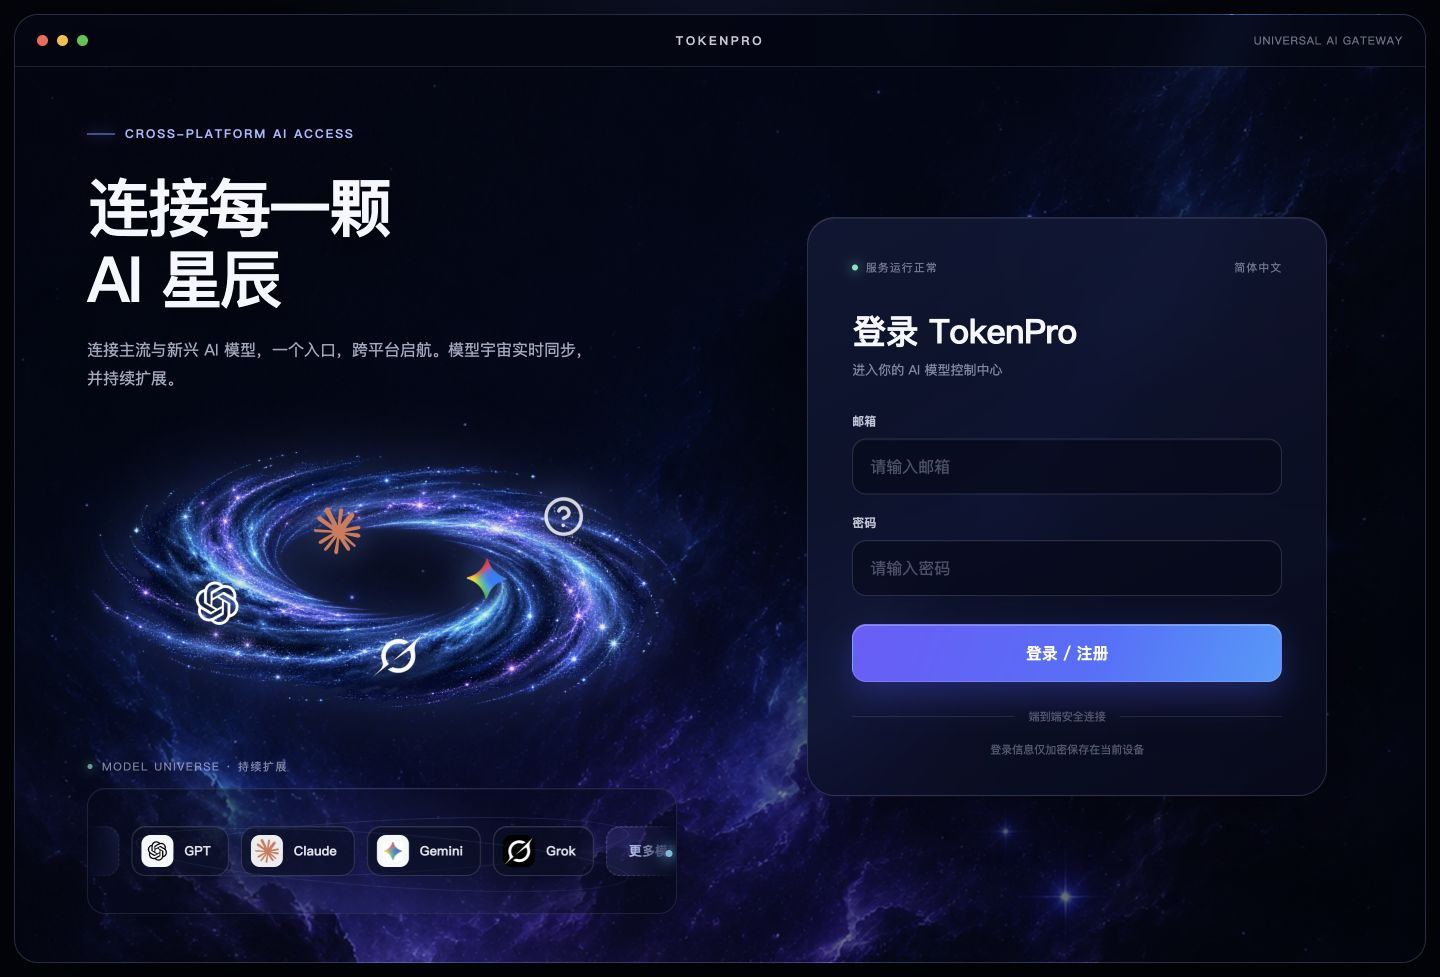
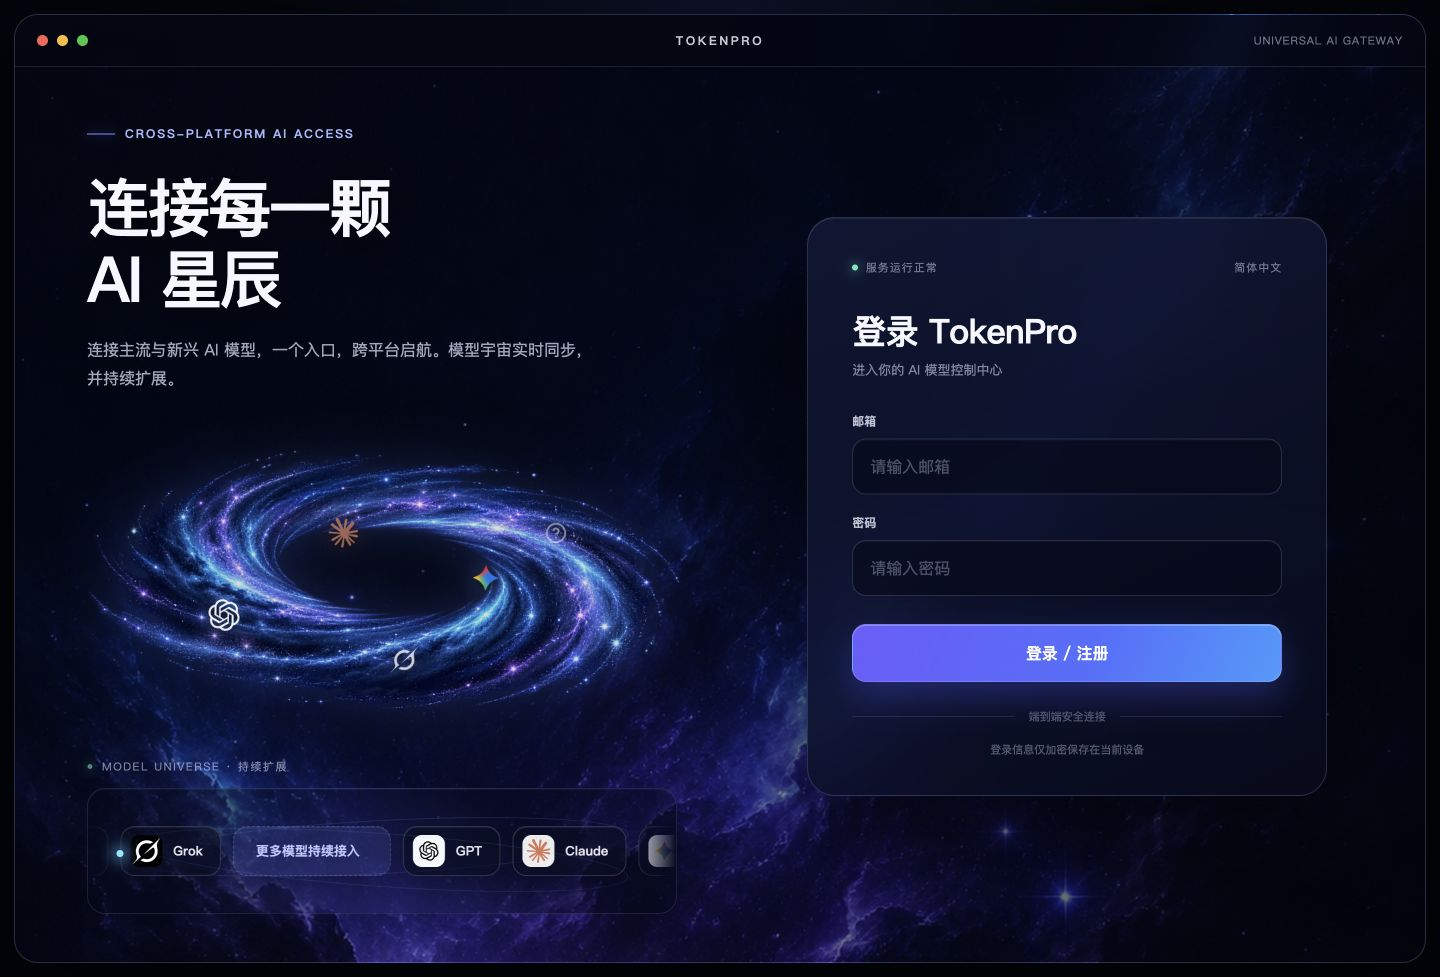
Refine model vortex composition

Changed region(s): [[0.0625, 0.4913, 0.4688, 0.7062], [0.0625, 0.8291, 0.4688, 0.9212]]

diff --git a/design-preview/index.html b/design-preview/index.html
@@ -104,21 +104,22 @@
       line-height: 1.8;
     }
     .vortex-stage { position: relative; flex: 1; min-height: 220px; margin: 8px -18px 2px; display: grid; place-items: center; isolation: isolate; }
-    .vortex-disc { width: min(610px, 108%); max-height: 100%; object-fit: contain; opacity: .84; filter: drop-shadow(0 0 22px rgba(78,118,255,.22)); animation: vortexBreath 8s ease-in-out infinite; }
+    .vortex-disc { width: min(620px, 109%); max-height: 100%; object-fit: contain; opacity: .78; filter: drop-shadow(0 0 18px rgba(78,118,255,.18)); animation: vortexBreath 10s ease-in-out infinite; }
     .vortex-models { position: absolute; inset: 0; }
     .vortex-model {
       position: absolute;
-      width: 44px;
-      height: 44px;
+      width: 30px;
+      height: 30px;
       object-fit: contain;
-      filter: drop-shadow(0 5px 9px rgba(0,0,0,.72)) drop-shadow(0 0 12px rgba(115,151,255,.5));
-      animation: modelFloat 4.8s ease-in-out infinite;
+      opacity: .86;
+      filter: drop-shadow(0 3px 5px rgba(0,0,0,.74)) drop-shadow(0 0 8px rgba(120,157,255,.38));
+      animation: modelFloat 6.4s ease-in-out infinite;
     }
-    .vortex-model.gpt { left: 20%; top: 51%; filter: invert(1) drop-shadow(0 5px 9px rgba(0,0,0,.72)) drop-shadow(0 0 12px rgba(115,151,255,.5)); }
-    .vortex-model.claude { left: 39%; top: 30%; width: 47px; height: 47px; animation-delay: -.9s; }
-    .vortex-model.gemini { left: 63%; top: 45%; width: 42px; height: 42px; animation-delay: -1.8s; }
-    .vortex-model.grok { left: 48%; top: 67%; width: 47px; height: 47px; animation-delay: -2.7s; }
-    .vortex-model.unknown { left: 75%; top: 29%; width: 40px; height: 40px; opacity: .82; filter: invert(1) drop-shadow(0 5px 9px rgba(0,0,0,.72)) drop-shadow(0 0 15px rgba(136,163,255,.62)); animation-delay: -3.5s; }
+    .vortex-model.gpt { left: 22%; top: 56%; width: 32px; height: 32px; opacity: .92; filter: invert(1) drop-shadow(0 3px 5px rgba(0,0,0,.74)) drop-shadow(0 0 8px rgba(120,157,255,.38)); }
+    .vortex-model.claude { left: 41%; top: 34%; width: 29px; height: 29px; opacity: .78; filter: saturate(.82) drop-shadow(0 3px 5px rgba(0,0,0,.7)) drop-shadow(0 0 7px rgba(216,119,87,.28)); animation-delay: -1.2s; }
+    .vortex-model.gemini { left: 64%; top: 47%; width: 26px; height: 26px; opacity: .9; animation-delay: -2.5s; }
+    .vortex-model.grok { left: 51%; top: 69%; width: 29px; height: 29px; opacity: .8; animation-delay: -3.8s; }
+    .vortex-model.unknown { left: 76%; top: 34%; width: 22px; height: 22px; opacity: .48; filter: invert(1) drop-shadow(0 0 7px rgba(136,163,255,.42)); animation-delay: -5.1s; }
     .orbit-copy { margin-top: 0; width: min(590px,100%); }
     .orbit-label { display: flex; align-items: center; gap: 9px; color: rgba(205,215,248,.58); font-size: 11px; letter-spacing: .14em; }
     .orbit-label::before { content: ""; width: 6px; height: 6px; border-radius: 50%; background: #6ff0ca; box-shadow: 0 0 12px #6ff0ca; animation: livePulse 2s ease-in-out infinite; }
@@ -158,8 +159,8 @@
     @keyframes modelDrift { to { transform: translateX(calc(-50% - 6px)); } }
     @keyframes requestFlow { 0% { left: -8px; opacity: 0; } 12%,82% { opacity: 1; } 100% { left: calc(100% + 8px); opacity: 0; } }
     @keyframes livePulse { 50% { opacity: .4; transform: scale(.72); } }
-    @keyframes vortexBreath { 50% { opacity: .98; transform: scale(1.025) rotate(.7deg); filter: drop-shadow(0 0 32px rgba(92,132,255,.36)); } }
-    @keyframes modelFloat { 50% { transform: translate(5px,-8px) rotate(3deg) scale(1.06); } }
+    @keyframes vortexBreath { 50% { opacity: .9; transform: scale(1.014) rotate(.35deg); filter: drop-shadow(0 0 26px rgba(92,132,255,.28)); } }
+    @keyframes modelFloat { 50% { transform: translate(3px,-4px) rotate(1.5deg) scale(1.035); } }
     .login-side { display: grid; place-items: center; padding: 42px 58px 58px 18px; }
     .login-card {
       width: min(520px, 100%);
@@ -366,7 +367,7 @@
       .dashboard-view { grid-template-columns: 250px 1fr; }
       .dash-header, .wallet-zone { padding-left: 28px; padding-right: 28px; }
       .connections { padding-left: 28px; padding-right: 28px; }
-      .vortex-model { width: 40px; height: 40px; border-radius: 12px; }
+      .vortex-model { transform: scale(.9); }
     }
     @media (prefers-reduced-motion: reduce) {
       .clients, .request-pulse, .orbit-label::before, .vortex-disc, .vortex-model { animation: none; }

diff --git a/design-qa.md b/design-qa.md
@@ -22,6 +22,7 @@
 - [Resolved P1] The empty hero region now contains a generated transparent blue-violet galaxy vortex with GPT, Claude, Gemini, and Grok marks floating inside its center; the lower model marquee remains in place.
 - [Resolved P2] The login hero label “Codex” was changed to “GPT” in both the vortex and looping model strip. Dashboard client names remain aligned with the supplied post-login reference.
 - [Resolved P2] Vortex model marks no longer use square cards or borders. Their positions, sizes, and animation phases are staggered across the spiral, and a fifth question-mark mark represents future providers.
+- [Resolved P2] The first transparent-mark pass still felt composited because every logo was large and equally bright. Marks now use smaller varied sizes, restrained opacity, softer provider-specific glow, and positions that follow separate spiral arms.
 
 **Required fidelity surfaces**
 
@@ -51,6 +52,7 @@ The official marks, input borders, login card, title bar, and CTA were checked a
 - The model universe marquee loops without a visible jump, the request pulse travels across the orbit, and reduced-motion mode disables both animations.
 - The vortex glow breathes slowly and the model marks float independently; reduced-motion mode also freezes these effects.
 - Five marks now float independently at varied points across the vortex, with no visible icon backplates.
+- The refined marks remain recognizable at full-window size while the vortex, rather than the logos, retains visual priority.
 - Logout returns to the login view.
 - Page reload restores the empty login state.
 - Browser console contains no warnings or errors.
